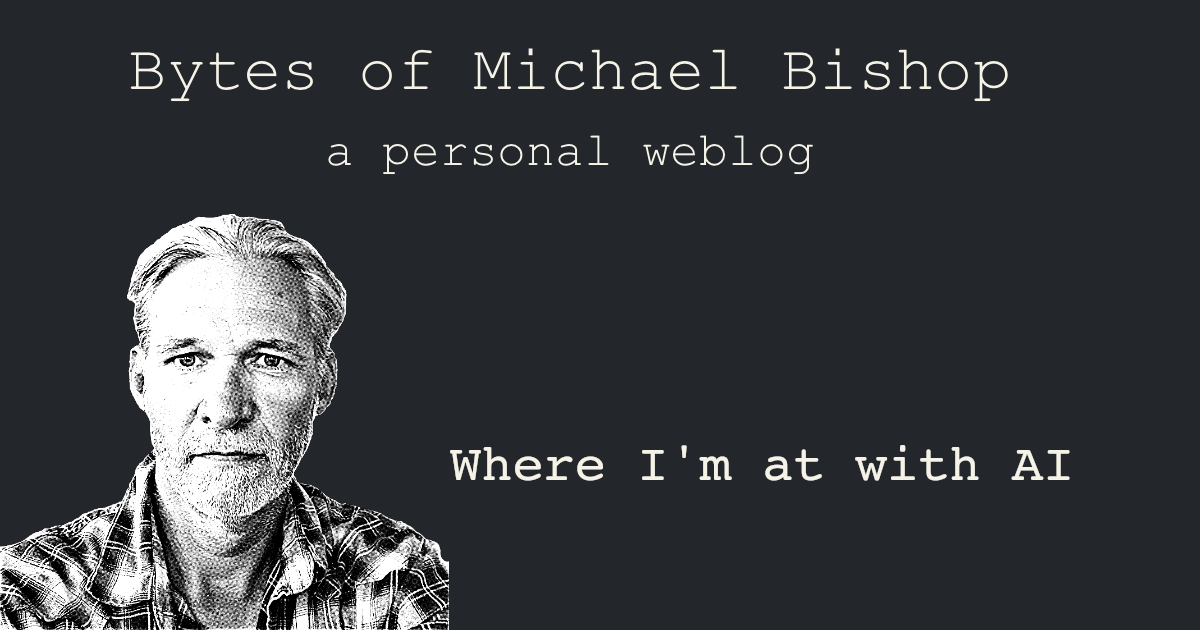
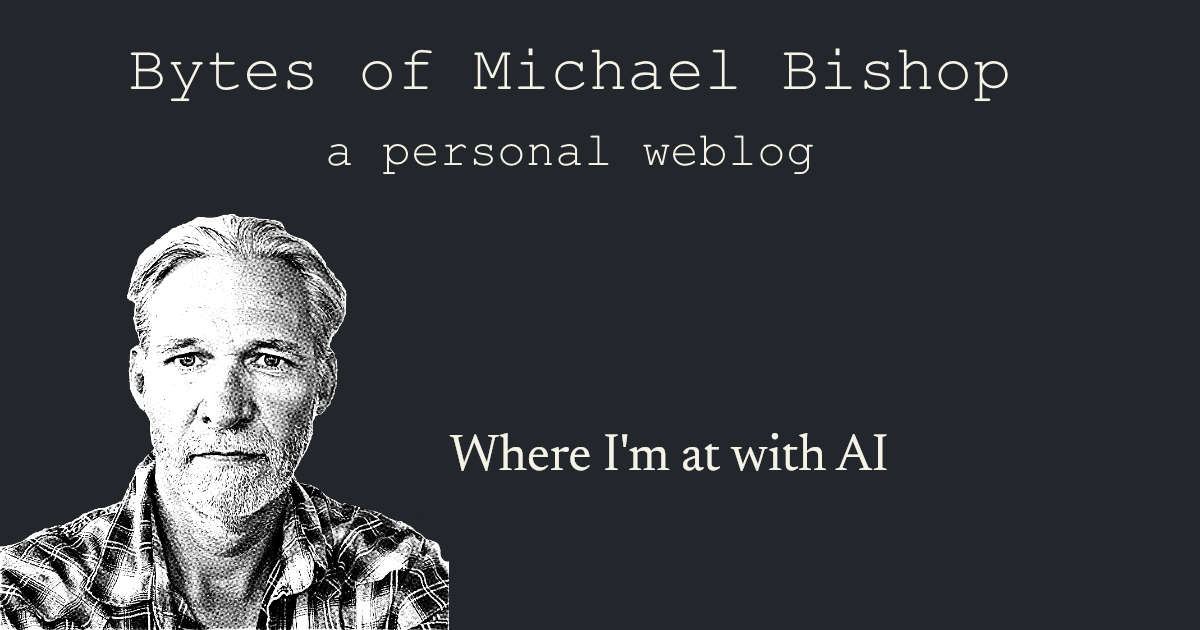
OG cards: set them in the site's own faces
The cards did not pick up the reskin and could not have — they are drawn with
@napi-rs/canvas over a baked PNG, with the font hardcoded to Courier New,
entirely independent of the stylesheets.

@napi-rs/canvas registers woff2 directly, so the fonts already self-hosted
for the site now draw the card too: Newsreader for the title, IBM Plex Mono
for the excerpt — the same pairing the pages use. Regenerated all 12.

Still unmatched: the masthead and portrait are baked into
public/assets/img/og-image.png, so "Bytes of Michael Bishop" is still set in
Courier, and the card is dark in both colour schemes. Both need new artwork
rather than code.

Changed region(s): [[0.37, 0.6937, 0.8942, 0.7841]]

diff --git a/scripts/generate-og-images.js b/scripts/generate-og-images.js
@@ -6,7 +6,7 @@
  * Run before Eleventy build: npm run og-images
  */
 
-import { createCanvas, loadImage } from '@napi-rs/canvas';
+import { createCanvas, loadImage, GlobalFonts } from '@napi-rs/canvas';
 import { readdir, readFile, writeFile, mkdir } from 'fs/promises';
 import { createHash } from 'crypto';
 import { existsSync } from 'fs';
@@ -32,7 +32,11 @@ const CONFIG = {
         long: 45,       // 35-50 chars
         veryLong: 38    // > 50 chars
     },
-    fontFamily: 'Courier New, Courier, monospace',
+    // The site's own faces, registered below from public/assets/fonts/ —
+    // Newsreader carries the title, IBM Plex Mono the excerpt, same pairing
+    // as the pages themselves.
+    fontFamily: 'Newsreader',
+    excerptFontFamily: 'IBM Plex Mono',
 
     // Excerpt, drawn under the title
     excerptColor: 'rgba(245, 242, 232, 0.72)',
@@ -49,6 +53,17 @@ const CONFIG = {
     maxTextWidth: 700,
     lineHeight: 70,
 };
+
+// Register the self-hosted fonts so the card is set in the same faces as the
+// site. Without this the canvas falls back to Courier New, which is what the
+// cards used before the reskin.
+for (const file of [
+    'newsreader-latin-wght-normal.woff2',
+    'ibm-plex-mono-latin-400-normal.woff2',
+]) {
+    const path = join('public/assets/fonts', file);
+    if (existsSync(path)) GlobalFonts.registerFromPath(path);
+}
 
 /**
  * Calculate font size based on title length
@@ -119,7 +134,7 @@ async function generateOgImage(title, excerpt, outputPath, baseImageBuffer) {
     // title and excerpt can be bottom-anchored as one block.
     let excerptLines = [];
     if (excerpt) {
-        ctx.font = `${CONFIG.excerptFontSize}px "${CONFIG.fontFamily}"`;
+        ctx.font = `${CONFIG.excerptFontSize}px "${CONFIG.excerptFontFamily}"`;
         excerptLines = wrapText(ctx, excerpt, CONFIG.maxTextWidth);
         if (excerptLines.length > CONFIG.excerptMaxLines) {
             excerptLines = excerptLines.slice(0, CONFIG.excerptMaxLines);
@@ -146,7 +161,7 @@ async function generateOgImage(title, excerpt, outputPath, baseImageBuffer) {
     // Draw the excerpt
     if (excerptLines.length) {
         ctx.fillStyle = CONFIG.excerptColor;
-        ctx.font = `${CONFIG.excerptFontSize}px "${CONFIG.fontFamily}"`;
+        ctx.font = `${CONFIG.excerptFontSize}px "${CONFIG.excerptFontFamily}"`;
         const excerptTop = textY + (lines.length - 1) * lineHeight + CONFIG.excerptGap;
         for (let i = 0; i < excerptLines.length; i++) {
             ctx.fillText(excerptLines[i], CONFIG.textX, excerptTop + ((i + 1) * CONFIG.excerptLineHeight));
